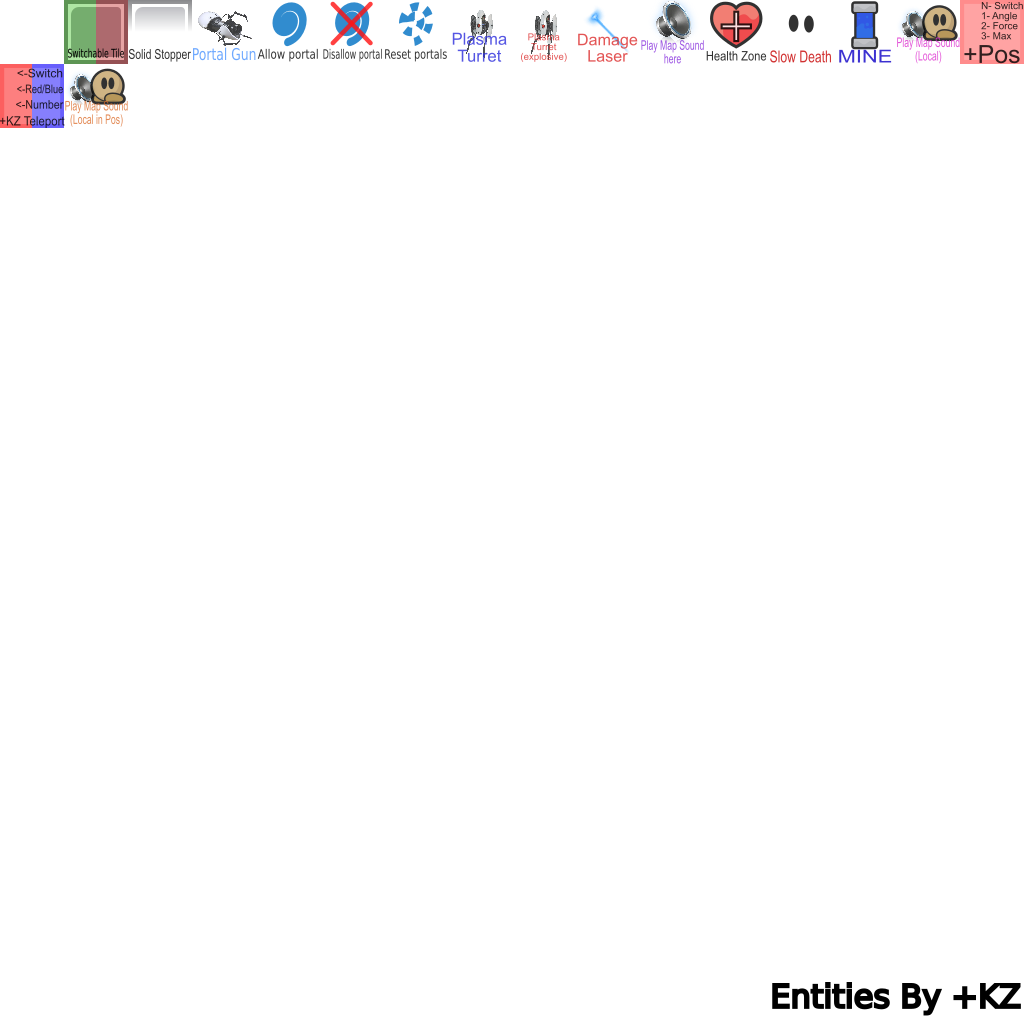
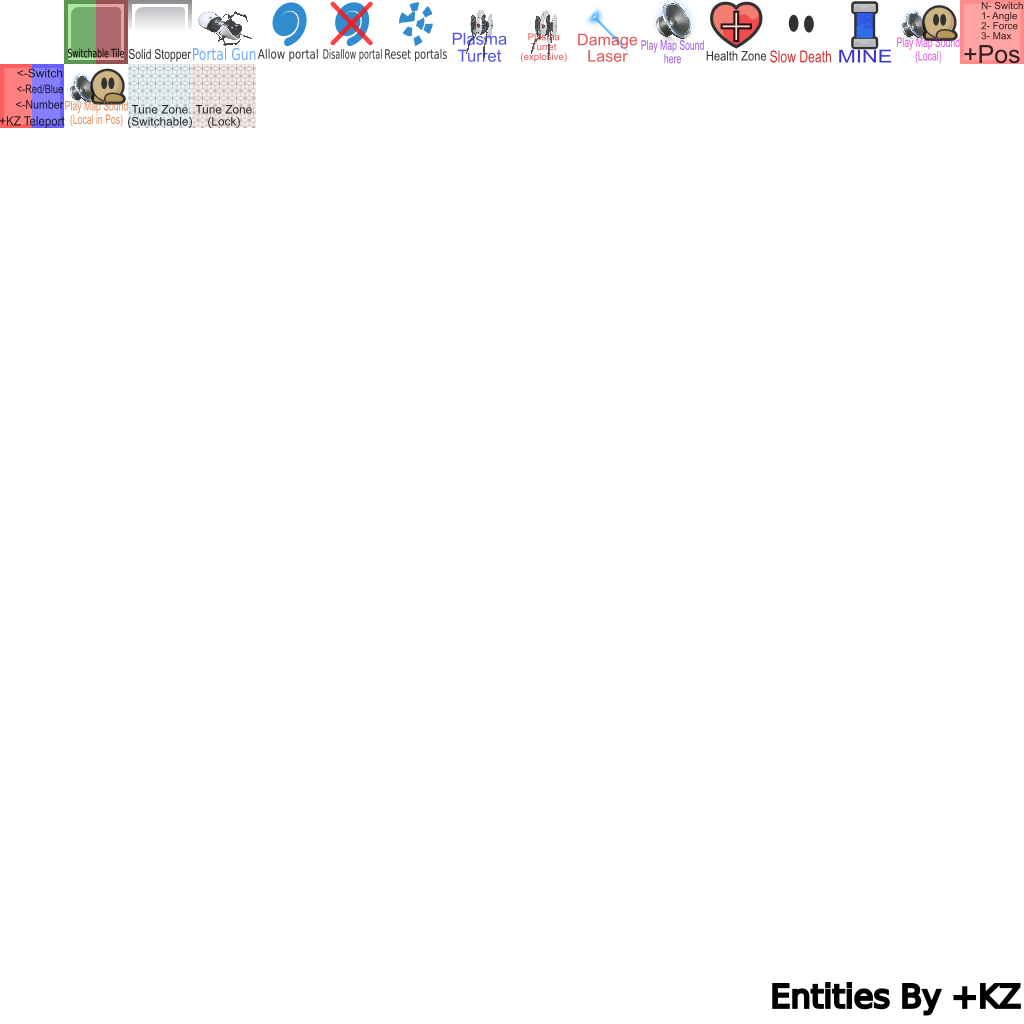
add tune tiles

Changed region(s): [[0.125, 0.0625, 0.25, 0.125]]

diff --git a/src/game/server/entities/character.cpp b/src/game/server/entities/character.cpp
@@ -1461,7 +1461,7 @@ void CCharacter::Snap(int SnappingClient)
 	pDDNetCharacter->m_TargetY = m_Core.m_Input.m_TargetY;
 
 	// -1 is the default value, SnapNewItem zeroes the object, so it would incorrectly become 0
-	pDDNetCharacter->m_TuneZoneOverride = -1;
+	pDDNetCharacter->m_TuneZoneOverride = GetOverriddenTuneZoneKZ(); //+KZ modified
 }
 
 void CCharacter::PostSnap()
@@ -2201,9 +2201,12 @@ void CCharacter::HandleTuneLayer()
 {
 	m_TuneZoneOld = m_TuneZone;
 	int CurrentIndex = Collision()->GetMapIndex(m_Pos);
-	m_TuneZone = Collision()->IsTune(CurrentIndex);
+	if(!m_ForcedTuneKZ && m_TuneZoneOverrideKZ < 0) //+KZ
+		m_TuneZone = Collision()->IsTune(CurrentIndex);
 
-	if(m_TuneZone)
+	if(m_TuneZoneOverrideKZ >= 0 && !m_TuneZone) //+KZ
+		m_Core.m_Tuning = TuningList()[m_TuneZoneOverrideKZ];
+	else if(m_TuneZone)
 		m_Core.m_Tuning = TuningList()[m_TuneZone]; // throw tunings from specific zone into gamecore
 	else
 		m_Core.m_Tuning = *Tuning();
@@ -2968,6 +2971,21 @@ void CCharacter::HandleKZTiles()
 			default:
 				break;
 			}
+		}
+
+		if(!m_ForcedTuneKZ && pKZTileFront->m_Index == KZ_FRONTTILE_TUNE_SWITCHABLE && (pKZTileFront->m_Number ? Switchers()[pKZTileFront->m_Number].m_aStatus[Team()] : true))
+		{
+			m_TuneZone = std::clamp((int)pKZTileFront->m_Value1,0,255);
+			m_ForcedTuneKZ = true;
+		}
+		else if(m_ForcedTuneKZ && pKZTileFront->m_Index != KZ_FRONTTILE_TUNE_SWITCHABLE && (pKZTileFront->m_Number ? !(Switchers()[pKZTileFront->m_Number].m_aStatus[Team()]) : true))
+		{
+			m_ForcedTuneKZ = false;
+		}
+
+		if(pKZTileFront->m_Index == KZ_FRONTTILE_TUNE_LOCK && (pKZTileFront->m_Number ? Switchers()[pKZTileFront->m_Number].m_aStatus[Team()] : true))
+		{
+			m_TuneZoneOverrideKZ = std::clamp((int)pKZTileFront->m_Value1,-1,255);
 		}
 	}
 }

diff --git a/src/game/server/save_kz.cpp b/src/game/server/save_kz.cpp
@@ -14,6 +14,7 @@ void CSaveTee::SaveKZ(CCharacter *pchr, bool AddPenalty)
     m_Health = pchr->m_Health;
     m_CustomWeapon = pchr->m_CustomWeapon;
 	m_BluePortal = pchr->m_BluePortal;
+    m_TuneZoneOverrideKZ = pchr->m_TuneZoneOverrideKZ;
 
     for(int i = 0; i < KZ_NUM_CUSTOM_WEAPONS - KZ_CUSTOM_WEAPONS_START; i++)
     {
@@ -27,6 +28,7 @@ bool CSaveTee::LoadKZ(CCharacter *pchr, int Team, bool IsSwap)
     pchr->m_Health = m_Health;
     pchr->m_CustomWeapon = m_CustomWeapon;
 	pchr->m_BluePortal = m_BluePortal;
+    pchr->m_TuneZoneOverrideKZ = m_TuneZoneOverrideKZ;
 
     for(int i = 0; i < KZ_NUM_CUSTOM_WEAPONS - KZ_CUSTOM_WEAPONS_START; i++)
     {

diff --git a/src/game/server/player.cpp b/src/game/server/player.cpp
@@ -257,7 +257,10 @@ void CPlayer::Tick()
 
 	m_TuneZoneOld = m_TuneZone; // determine needed tunings with viewpos
 	int CurrentIndex = GameServer()->Collision()->GetMapIndex(m_ViewPos);
-	m_TuneZone = GameServer()->Collision()->IsTune(CurrentIndex);
+	if(m_pCharacter) //+KZ
+		m_TuneZone = m_pCharacter->GetOverriddenTuneZoneKZ();
+	else
+		m_TuneZone = GameServer()->Collision()->IsTune(CurrentIndex);
 
 	if(m_TuneZone != m_TuneZoneOld) // don't send tunings all the time
 	{

diff --git a/src/game/server/entities/character.h b/src/game/server/entities/character.h
@@ -275,6 +275,9 @@ public:
 	//+KZ
 	void HandleKZTiles();
 	bool TakeDamageVanilla(vec2 Force, int Dmg, int From, int Weapon);
+	int GetOverriddenTuneZoneKZ() const { return ((m_TuneZoneOverrideKZ < 0 && !m_TuneZone) || m_ForcedTuneKZ) ? m_TuneZone : m_TuneZoneOverrideKZ; }
+	int m_TuneZoneOverrideKZ = -1;
+	bool m_ForcedTuneKZ = false;
 	int m_aCrown[7];
 	bool m_EnableCrown = false;
 	bool m_SnapCustomWeapon = false;

diff --git a/src/game/server/gamecontext.cpp b/src/game/server/gamecontext.cpp
@@ -941,7 +941,7 @@ void CGameContext::SendTuningParams(int ClientId, int Zone)
 			{
 				if(m_apPlayers[i]->GetCharacter())
 				{
-					if(m_apPlayers[i]->GetCharacter()->m_TuneZone == Zone)
+					if(m_apPlayers[i]->GetCharacter()->GetOverriddenTuneZoneKZ() == Zone) //+KZ
 						SendTuningParams(i, Zone);
 				}
 				else if(m_apPlayers[i]->m_TuneZone == Zone)

diff --git a/src/game/server/save.h b/src/game/server/save.h
@@ -158,6 +158,7 @@ private:
 	int m_Health = 10;
 	int m_CustomWeapon = 0;
 	bool m_BluePortal = true;
+	int m_TuneZoneOverrideKZ = -1; //+KZ
 	struct
 	{
 		bool m_Got = false;

diff --git a/src/game/mapitems_kz.h b/src/game/mapitems_kz.h
@@ -34,6 +34,9 @@ enum
 	KZ_TILE_SOUND_PLAY_LOCAL_IN_POS,
 
 	KZ_GAMETILE_SPEC_POS = 18,
+
+	KZ_FRONTTILE_TUNE_SWITCHABLE = 18,
+	KZ_FRONTTILE_TUNE_LOCK,
 };
 
 enum
